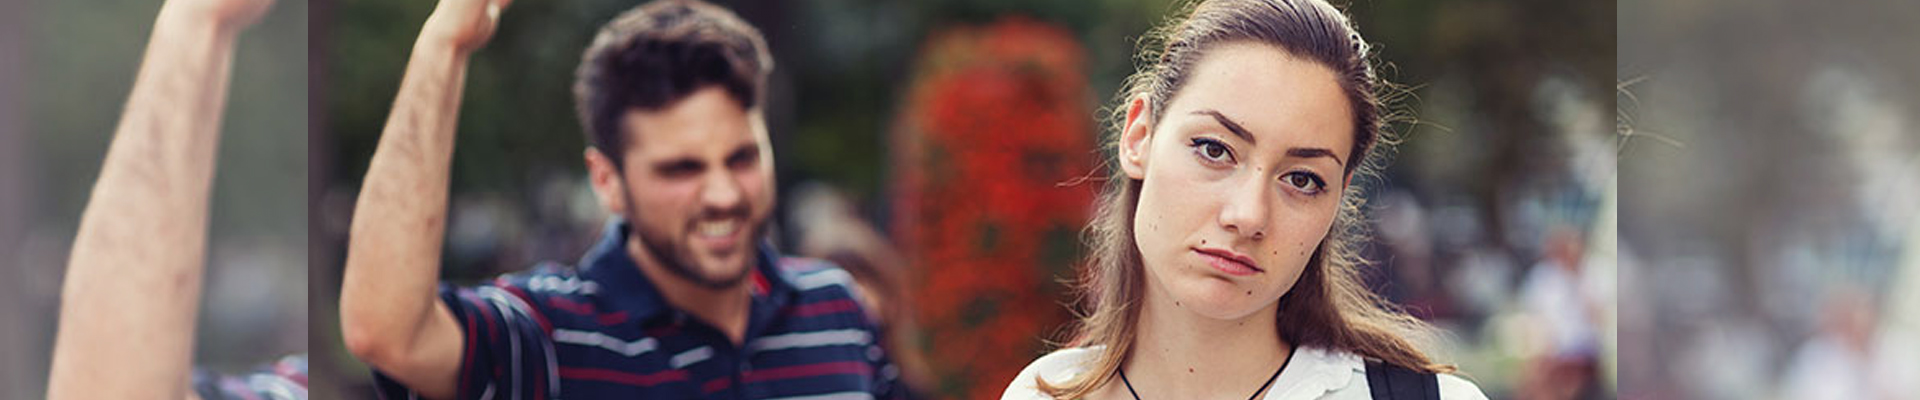
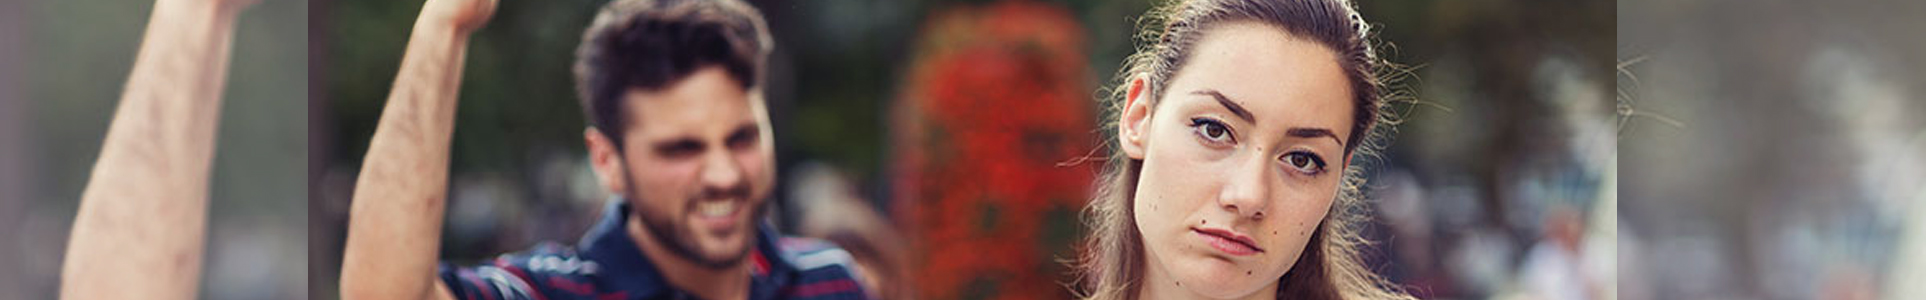
header update img and title

diff --git a/public/css/app.css b/public/css/app.css
@@ -39,7 +39,7 @@ body {
 }
 
 .headerImage img {
-  height: 400px;
+  height: 300px;
   width: 100%;
   position: relative;
 }
@@ -52,7 +52,7 @@ body {
 }
 
 .headerTitle h1 {
-  margin: 90px 0 0 0;
+  margin: 50px 0 0 0;
   text-align: center;
   color: white;
   letter-spacing: 20px;

diff --git a/resources/views/home.blade.php b/resources/views/home.blade.php
@@ -3,11 +3,6 @@
 @section('content')
   <div class="wrapper">
     <div class="content-split content-home">
-      <h1>Onze Awesome Game</h1>
-      <h3>[Game Naam]</h3>
-      <img src="{{asset('images/logo_game_on.png')}}" />
-    </div>
-    <div class="content-split content-home">
       <h1>Random Filmpje</h1>
       <h3>Social Experiment</h3>
       <iframe width="720px" height="405px" src="https://www.youtube.com/embed/9uccExOPMrI" frameborder="0" allow="autoplay; encrypted-media" allowfullscreen></iframe>
@@ -17,6 +12,11 @@
       <h3>Eva (22)</h3>
       <p>Ik was met de tram onderweg naar Hoboken om mij in te schrijven op de hogeschool. Ik zat op een enkel zitje tegen het raam. Het rijtuig zat vol, maar staanplaatsen waren er nog genoeg. Een man kwam tegen mijn zitje staan, met zijn geslachtsdeel tegen mijn arm. Als toch nog wel ‘klein meisje in een grote stad’ durfde ik niet te bewegen en heb ik de volle vijf minuten (die wel uren leken te duren) naar buiten gestaard. Na mij ging hij naar het volgende meisje en deed hij exact hetzelfde.</p>
       <p>Ook kan ik mij enorm kwaad maken in jongens die op een feestje willen passeren en me onnodig vastnemen in mijn zij of aan mijn heupen. Ik ben er zéker van dat veel meisjes deze situatie zullen herkennen. Het is écht niet moeilijk om gewoon te passeren zonder ons lichaam aan te raken, laat staan vast te nemen. Het ergste vind ik dat ze niet eens beseffen dat dit fout is, en dan ook ‘kwaad’ worden als hen raar bekijkt of hun handen wegduwt.</p>
+    </div>
+    <div class="content-split content-home">
+      <h1>Onze Awesome Game</h1>
+      <h3>[Game Naam]</h3>
+      <img src="{{asset('images/logo_game_on.png')}}" />
     </div>
   </div>
 @endsection

diff --git a/resources/views/layouts/header.blade.php b/resources/views/layouts/header.blade.php
@@ -26,7 +26,7 @@
         </div>
 
         <div class = 'headerTitle'>
-          <h1>SSIA</h1>
+          <h1>Filler</h1>
         </div>
       </header>
 
